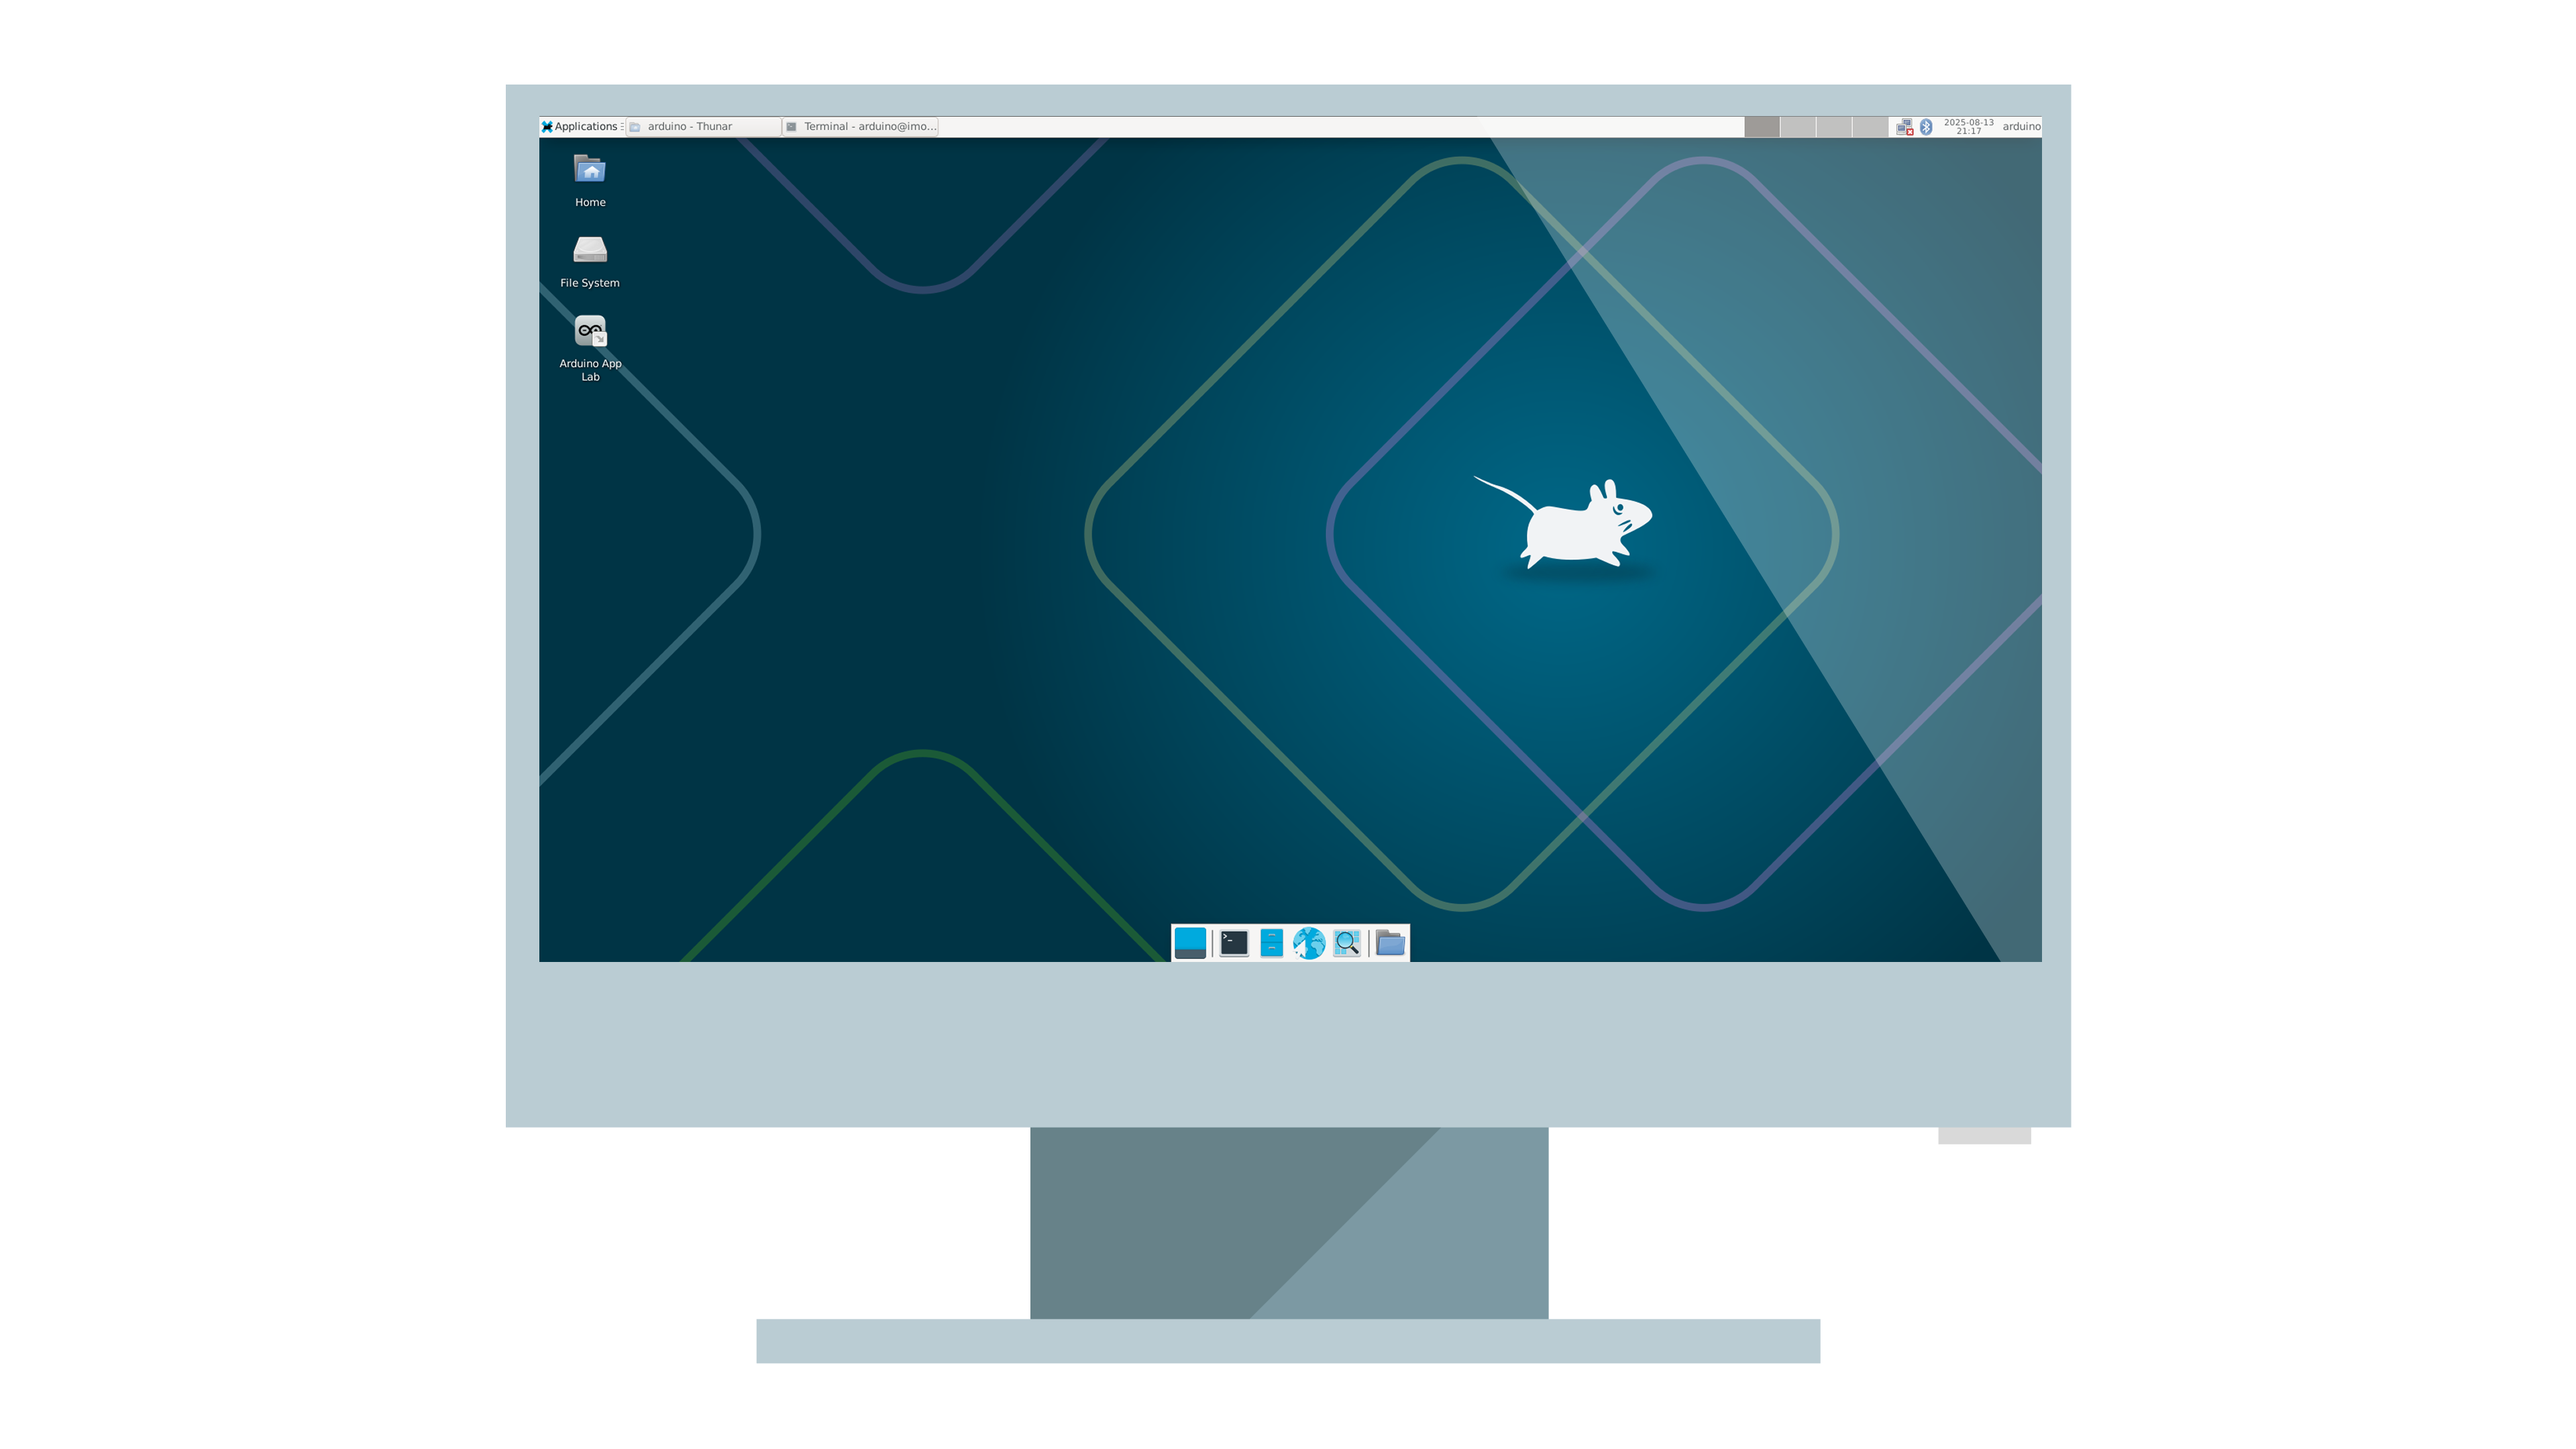
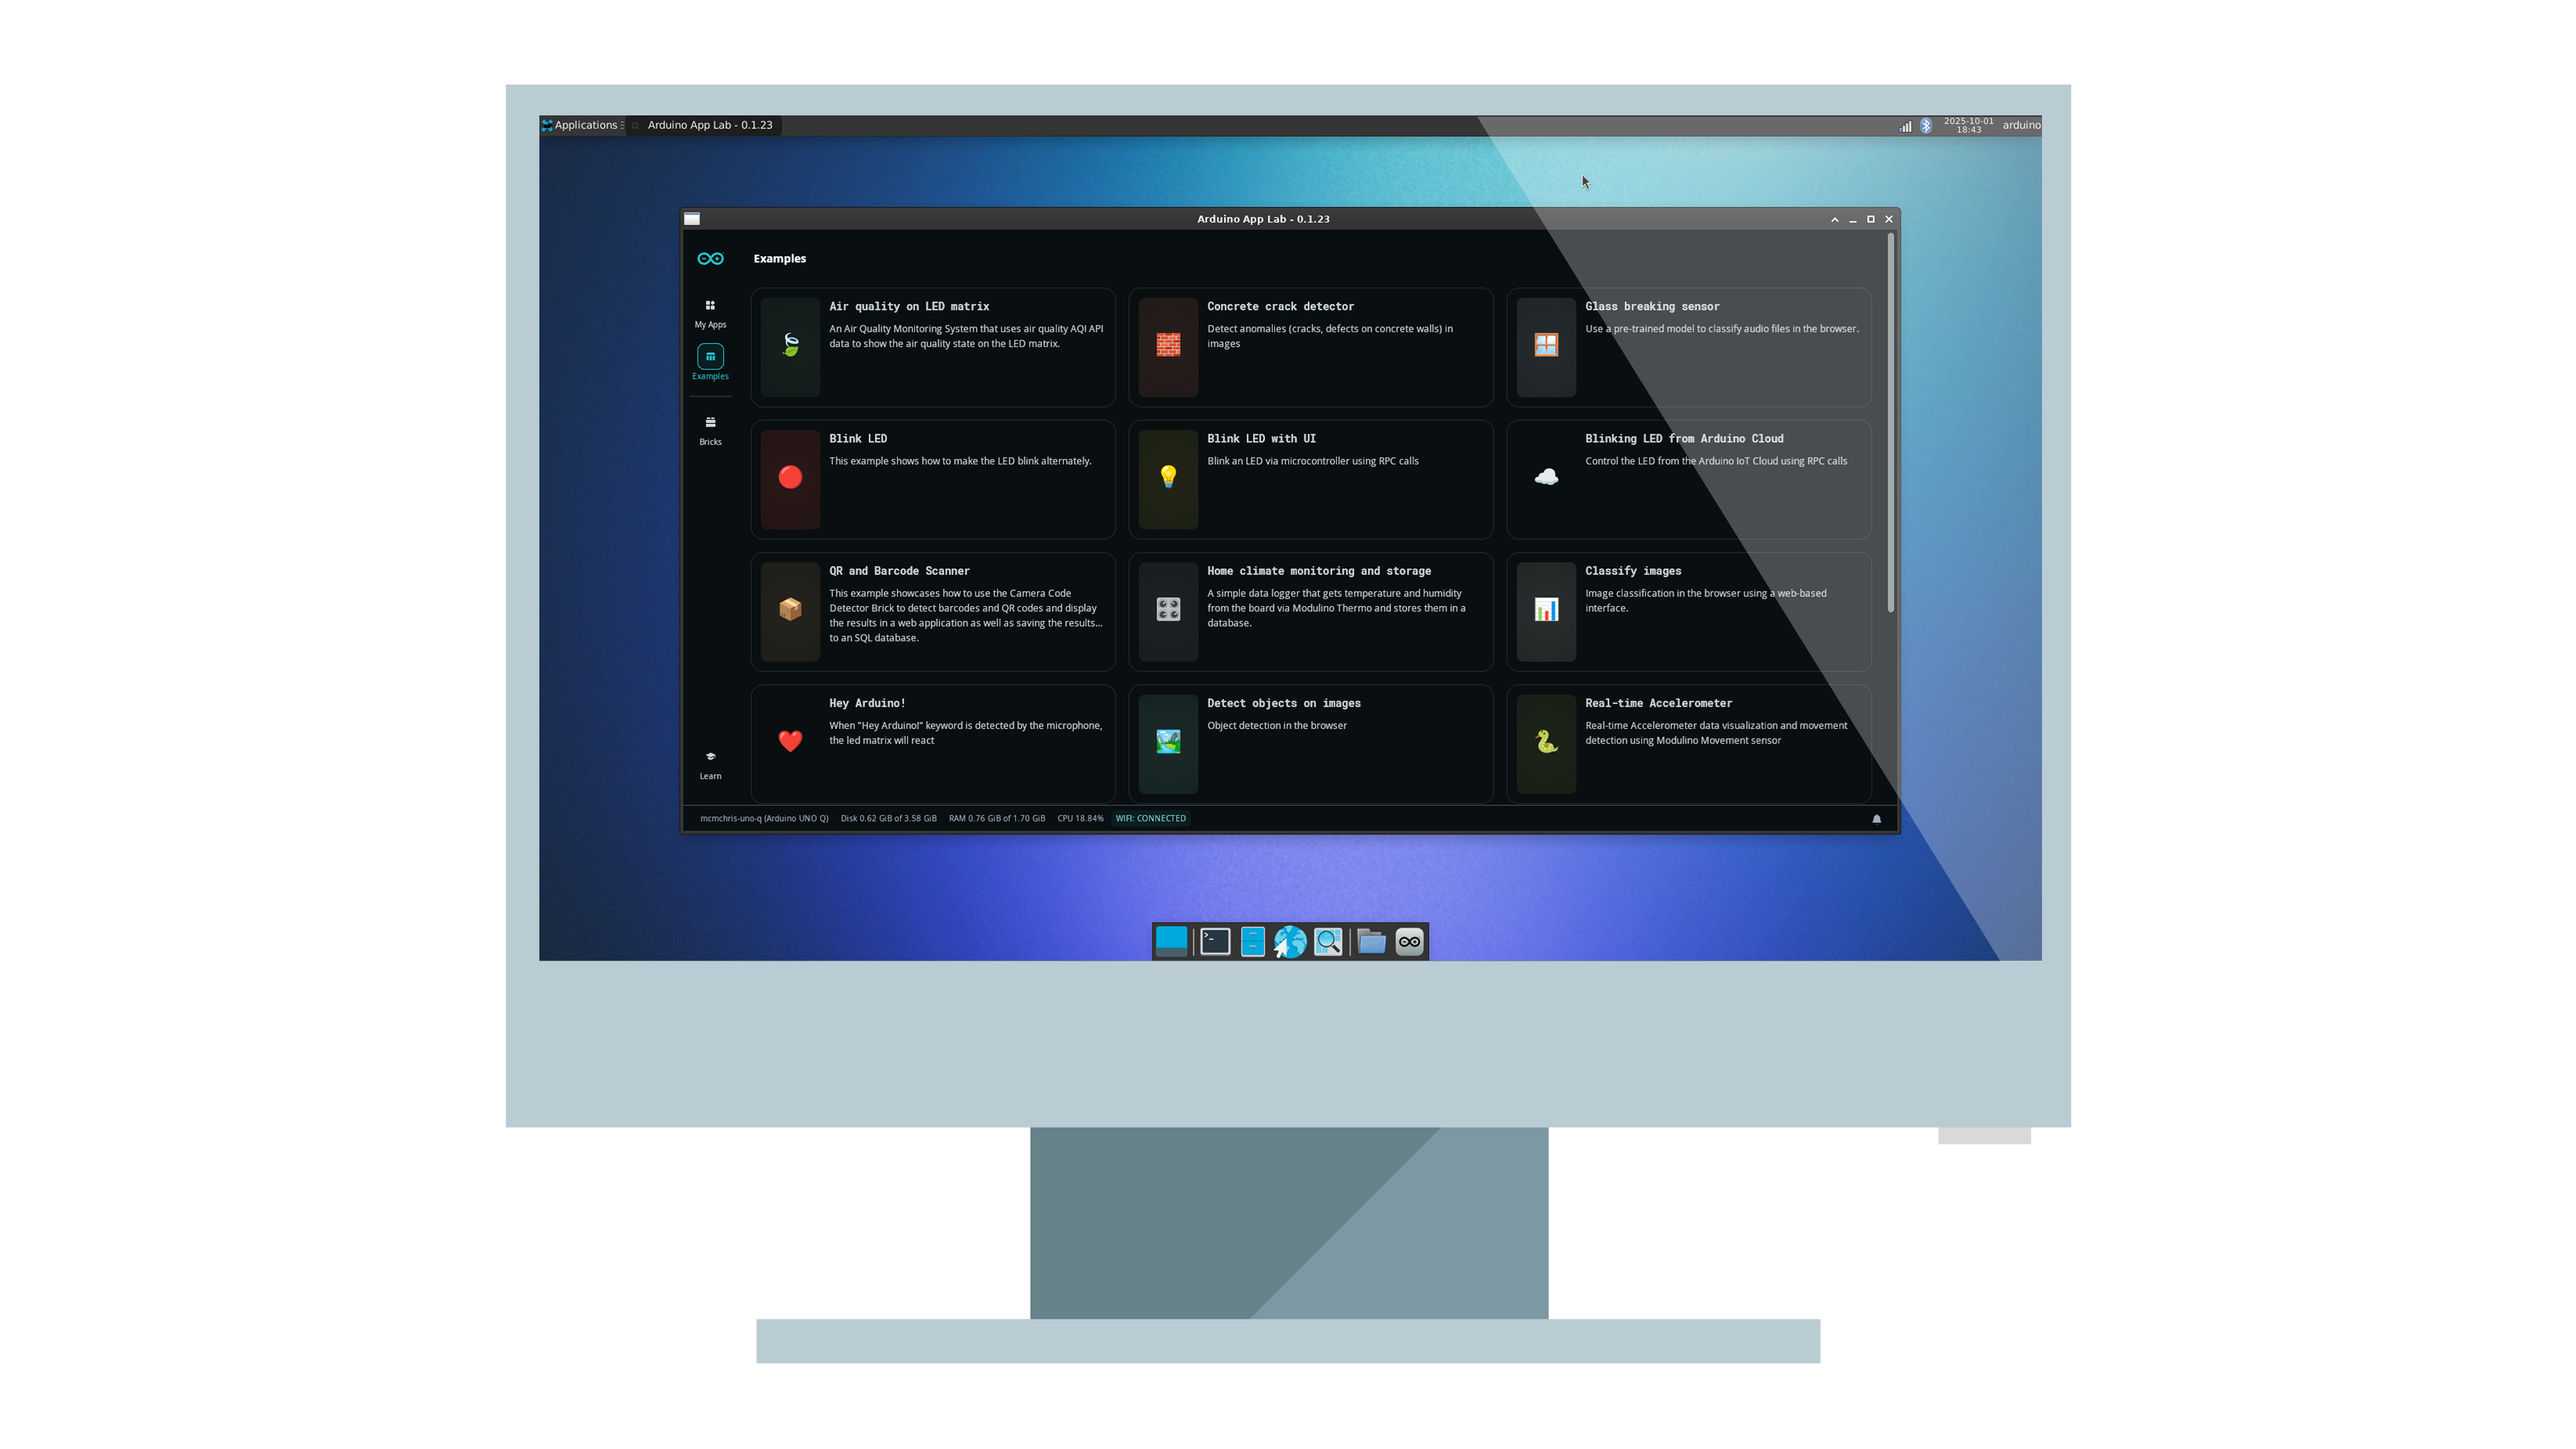
Marta Review addressed

diff --git a/content/hardware/02.uno/boards/uno-q/tutorials/02.single-board-computer/content.md b/content/hardware/02.uno/boards/uno-q/tutorials/02.single-board-computer/content.md
@@ -1,6 +1,6 @@
 ---
 title: Using the Arduino UNO Q as a Single-Board Computer
-description: This tutorial teaches you how to use the Arduino UNO Q as a Single Board Computer, leveraging its expandability to create a desktop experience.
+description: This tutorial teaches you how to use the Arduino UNO Q as a Single-Board Computer, leveraging its expandability to create a desktop experience.
 author: Christopher Méndez
 hardware:
   - hardware/uno/boards/uno-q
@@ -10,7 +10,7 @@ difficulty: beginner
 
 ## Overview
 
-The UNO Q is a powerful, versatile development board designed for hobbyists, developers, and makers. Thanks to its hybrid architecture, we can leverage it as a fully functional Linux based **Single-board computer**.
+The UNO Q is a powerful, versatile development board designed for hobbyists, developers, and makers. Thanks to its hybrid architecture, we can leverage it as a fully functional Linux based **Single-Board Computer** (SBC), capable of running Arduino sketches.
 
 ![UNO Q single-board computer](assets/thumbnail.png)
 
@@ -31,20 +31,18 @@ To set up the UNO Q as a single-board computer, you'll need the following hardwa
 
 ### Hardware Requirements
 
-- [Arduino UNO Q](https://store.arduino.cc/products/uno-q)
-- Mouse
-- Keyboard
+- [Arduino® UNO Q](https://store.arduino.cc/products/uno-q)
+- USB Mouse
+- USB Keyboard
 - HDMI Display
-- USB-C® Hub<sup>1</sup>
-- Power Supply (to power the USB-C hub)
+- USB-C® Dongle<sup>1</sup>
+- Power Supply +5 VDC at 3 A (to power the USB-C dongle)
 
-***<sup>1</sup>Apple's USB-C Hub has been tested and does not work properly with the UNO Q. Any other USB-C Hub with an external power supply should work fine with the board.***
+***<sup>1</sup>Apple’s USB-C dongle has been tested and found to be incompatible with the UNO Q. Please select an alternative part number.***
 
 ### Software Requirements
 
-The UNO Q comes ready to use out of the box. You do not need to flash or install any image or program to the board for the test shown in this tutorial.
-
-***The UNO Q comes with a built-in desktop operating system based on the Debian distribution.***
+The UNO Q comes preloaded with a desktop operating system based on the Debian distribution with upstream support, allowing you to start working immediately. For the test shown in this tutorial, there is no need to flash the board or install any additional images or programs.
 
 ## UNO Q Features for SBC Use
 
@@ -52,10 +50,10 @@ The UNO Q offers the essential performance and connectivity needed for everyday 
 
 - **CPU**: Qualcomm Dragonwing™ QRB2210 | Quad-core Arm® Cortex®-A53 @ 2.0 GHz
 - **GPU**: Adreno 702 GPU @ 845 MHz | 3D graphics accelerator
-- **RAM**: 2 GB or 4 GB LPDDR4 
+- **RAM**: 2 GB or 4 GB LPDDR4 (we recommend the **4 GB** variant for a smooth SBC experience)
 - **Storage**: 16 GB or 32 GB eMMC
-- **Connectivity**: Wi-Fi® 5 Dual-band 2.4/5 GHz and Bluetooth® LE 5
-- **Display**: 4K resolution through USB-C
+- **Connectivity**: Wi-Fi® 5 Dual-band 2.4/5 GHz and Bluetooth® 5.1
+- **Display**: HD resolution through USB-C
 
 ## Computer Assembly
 
@@ -63,43 +61,60 @@ To assemble your UNO Q single-board computer, follow the steps below:
 
 ![Assembly steps](assets/assembly.gif)
 
-1. Connect the USB-C hub to the USB-C port on the Arduino UNO Q.
-2. Plug the USB keyboard and mouse into the hub's USB-A ports.
-3. Connect the monitor to the hub's HDMI port.
-4. Attach the external power supply to the hub, but do not power it on yet.
+1. Connect the USB-C dongle to the USB-C port on the Arduino UNO Q.
+2. Plug the USB keyboard and mouse into the dongle's USB-A ports.
+3. Connect the monitor to the dongle's HDMI port.
+4. Attach the external power supply to the dongle, but do not power it on yet.
 
-***The UNO Q does not provide power to the USB-C hub, you must power the hub externally and it will also power the board.***
+***The UNO Q does not supply power to the USB-C dongle. The dongle must be powered externally, and, in turn, it will also provide power to the board.***
 
 ### Powering Options
 
-To power your single-board computer, use an external power supply to power the USB-C hub as follows:
+To power your single-board computer, use an external power supply to power the USB-C dongle as follows:
 
 ![Powering the system](assets/power.png)
 
-***The power supply should provide at least +5 VDC at 3 A to reliably power the hub, the connected devices, and the UNO Q.***
+***The power supply should provide at least +5 VDC at 3 A to reliably power the dongle, the connected devices, and the UNO Q.***
 
 Once powered, the single-board computer will turn on and boot automatically.
 
 ## Login and First Use
 
-When the UNO Q finishes booting, the Debian login screen will appear. Use the following default credentials to sign in:
+When the UNO Q finishes booting, the Debian login screen will appear. The default username is `arduino` and in the password field enter a **custom password**:
 
 - **Username**: arduino
-- **Password**: arduino
+- **Password**: `new-password`
+- You will then be asked to confirm your password.
 
-![Login Screen](assets/login.png)
+![Login Screen](assets/login-new.png)
 
-***On your first login, you will be prompted to change the default password to a more secure, personalized one.***
+Arduino App Lab will open automatically and guide you through a one-time board configuration process with the following steps:
 
-Finally, you are ready to use the UNO Q as a single-board computer. 
+- Set your **keyboard** configuration and the **board name**:
+
+  ![Keyboard layout and board name](assets/keyboard.png)
+
+- Select your Wi-Fi® network `SSID` and enter its password to connect to it.
+
+  ![Wi-Fi® configuration](assets/network-new.png)
+
+- Set your Linux login credentials. You can use the same password you set at login time or change it by entering a new one:
+
+  ![Linux credentials](assets/login-credentials.png)
+
+Eventually, Arduino App Lab will open showing the built-in examples Apps. Now, you are ready to use the UNO Q as a single-board computer. The Arduino App Lab will open automatically and guide you in the first time board set up.
 
 ![SBC ready to use](assets/ready-to-use.png)
 
+***Arduino App Lab will always run on boot and will update the board and the dependecies to their latest versions.***
+
 ### Connect to the Internet
 
-To connect your computer to the internet, simply go to the upper right corner and click on the network icon. Then, search for available Wi-Fi® networks and select one.
+If you followed the Arduino App Lab first set up, you should be already connected to the internet. However, here is a brief explanation of how to do it manually.
 
-![Connect to the Wi-Fi network](assets/wifi.png)
+To connect the UNO Q to the internet, simply go to the upper right corner and click on the network icon. Then, search for available Wi-Fi® networks and select one.
+
+![Connect to the Wi-Fi network](assets/wifi-new.png)
 
 Or run the following command in the terminal:
 
@@ -107,13 +122,13 @@ Or run the following command in the terminal:
 sudo nmcli d wifi connect <SSID> password <YOUR_PASSWORD>
 ```
 
-## Further Usage
+## Explore SBC Mode: Linux & Arduino App Lab
 
 With your single-board computer now configured and ready, you can tap into the full Linux experience and take advantage of our new Arduino App Lab to work with the UNO Q.
 
 ### Arduino App Lab
 
-Develop hybrid Arduino projects effortlessly with the built-in Arduino App Lab. Follow our [step-by-step tutorial](/software/app-lab/tutorials/getting-started/) to unlock the full potential of your UNO Q.
+Develop hybrid Arduino Edge AI projects effortlessly with the built-in Arduino App Lab. Follow our [step-by-step tutorial](/software/app-lab/tutorials/getting-started/) to unlock the full potential of your Arduino UNO Q.
 
 ![Arduino App Lab](assets/app-lab.png)
 
@@ -121,14 +136,38 @@ Develop hybrid Arduino projects effortlessly with the built-in Arduino App Lab. 
 
 You can use your single-board computer for web browsing, media playing, coding, file managing and much more.
 
-![SBC everyday usage](assets/usage.gif)
+![SBC everyday usage](assets/desktop.gif)
+
+Out of the box, the Debian-based image on the UNO Q already comes with several useful applications pre-installed, allowing you to get started immediately:
+
+- **Chromium Browser**: surf the web, check your email, and use cloud-based productivity tools.
+- **Terminal**: manage files, run Linux commands, install software, and interact with the system at a deeper level.
+- **Vim Editor**: a powerful text editor available in the terminal, useful for editing configuration files or writing code.
+- **File Manager**: organize your documents, images, and downloads in a graphical interface.
+- **Media Player**: play audio and video files locally (VLC installation needed). 
+
+These built-in applications give you everything you need for daily computing tasks without requiring additional installations. Of course, you can always expand your environment by installing more software using Debian’s package manager (apt).
+
+For example, to install **VLC media player** run the following command in the terminal:
+
+```bash
+sudo apt install vlc
+```
+
+To use a USB camera we can install **Cheese**, an app that provides a graphical interface to take snapshots and record:
+
+```bash
+sudo apt install cheese
+```
+![Chesse webcam application](assets/webcam.png)
 
 ## Expand Your Single-Board Computer
 
-You can add more functionalities to your UNO Q single-board computer by adding extra peripherals connected to your USB-C hub, for example:
+You can add more functionalities to your UNO Q single-board computer by adding extra peripherals connected to your USB-C dongle, for example:
 
 - USB camera
 - USB drive
+- MicroSD card
 - Wired internet connectivity through Ethernet
 - Headset (speaker and/or microphone)
 
